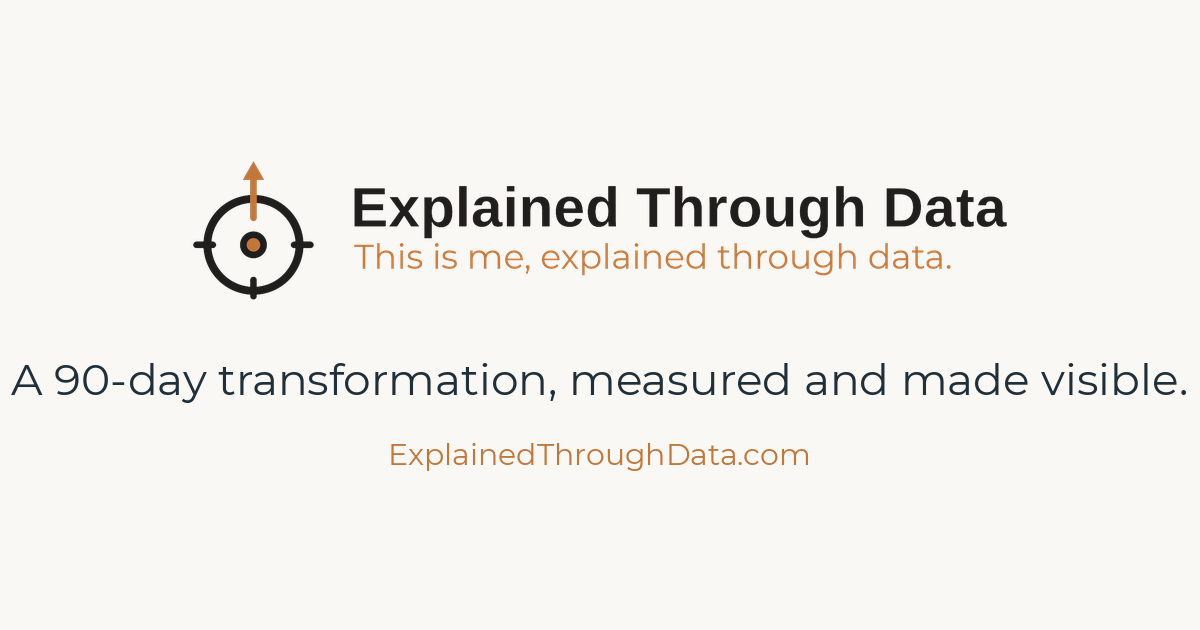
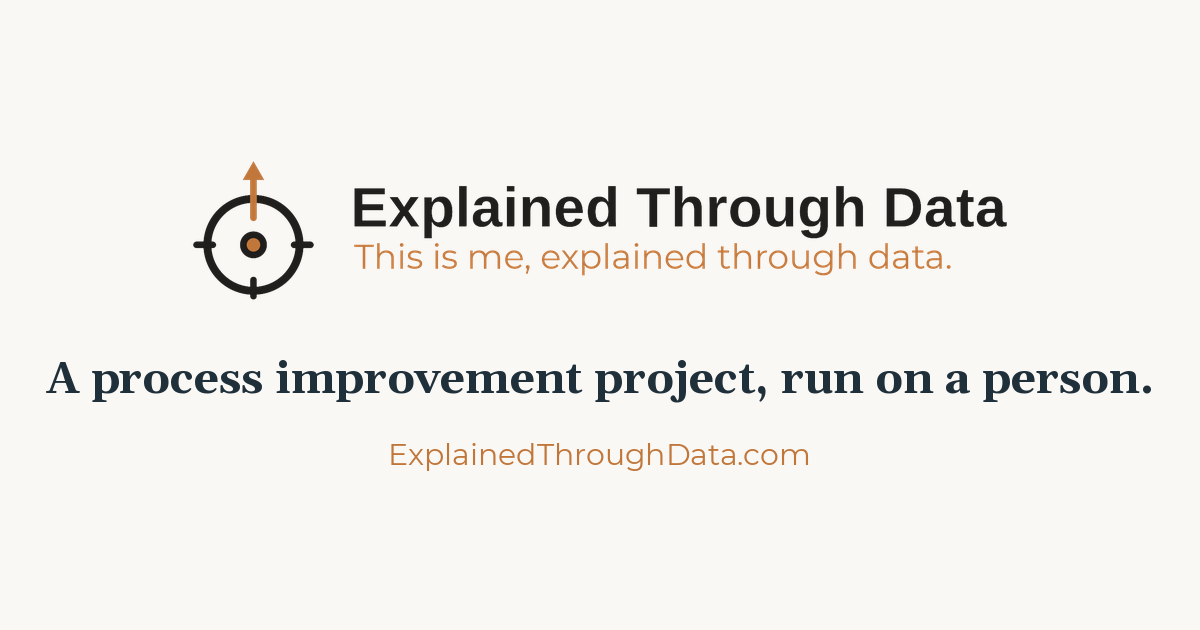
Add files via upload

Changed region(s): [[0.0, 0.573, 0.9867, 0.6333]]

diff --git a/casestudy.html b/casestudy.html
@@ -11,17 +11,17 @@
     gtag('config', 'G-PDDWPMZY8G');
   </script>
   <title>Case Study &mdash; Explained Through Data</title>
-  <meta name="description" content="A 90-day live case study. Real days, honest numbers, one system built to hold both.">
+  <meta name="description" content="A process improvement project run on a person instead of a factory. Live charts, honest numbers, and the misses included.">
   <meta property="og:type" content="website">
   <meta property="og:url" content="https://www.explainedthroughdata.com/casestudy.html">
   <meta property="og:title" content="Explained Through Data: this is what the data shows">
-  <meta property="og:description" content="A self-directed Lean Six Sigma project applying DMAIC and statistical process control to a measurable 90-day transformation, documented in public with real data and control charts.">
+  <meta property="og:description" content="A self-directed Lean Six Sigma project applying DMAIC and statistical process control to a person instead of a factory, documented in public with real data and live charts.">
   <meta property="og:image" content="https://www.explainedthroughdata.com/og-image.png">
   <meta property="og:image:width" content="1200">
   <meta property="og:image:height" content="630">
   <meta name="twitter:card" content="summary_large_image">
   <meta name="twitter:title" content="Explained Through Data: this is what the data shows">
-  <meta name="twitter:description" content="A measurable 90-day transformation, documented in public with real data.">
+  <meta name="twitter:description" content="A process improvement project run on a person instead of a factory, documented in public with real data.">
   <meta name="twitter:image" content="https://www.explainedthroughdata.com/og-image.png">
 
   <link rel="icon" type="image/png" sizes="32x32" href="favicon_32.png">
@@ -114,7 +114,7 @@
 
     <section class="band">
       <div class="eyebrow">The Process Improvement Project</div>
-      <p>Ninety days of documenting real life without a pass or fail attached. Every morning starts with the same short set of measurements. Every evening closes with a written reflection. Six pillars run underneath: Body, Career, Relational and Spiritual, Community, and the quiet fifth of Documentation itself.</p>
+      <p>Ninety days of documenting real life without a pass or fail attached. Every morning starts with the same short set of measurements. Every evening closes with a written reflection. Three pillars run underneath: Body, Career, and Relational and Spiritual. The documenting itself is not a pillar. It is the discipline that makes the other three legible.</p>
       <p>The frame is Lean Six Sigma, DMAIC, and Statistical Process Control, applied to a person instead of a factory. That is not a metaphor. Every measurement has an operational definition, every finding has a Special Cause or Common Cause verdict, and every ruling is dated and defensible.</p>
     </section>
 
@@ -163,8 +163,10 @@
     </section>
 
     <section class="band">
-      <h2>See a system in motion?</h2>
-      <p>Reach me if you'd like to talk about what this looks like inside client experience, account management, or a role where measured care matters.</p>
+      <div class="eyebrow">What's Next</div>
+      <h2>This is how I would run your accounts.</h2>
+      <p>The method transfers. Define the problem, measure before touching anything, change one thing at a time, then make sure the fix holds after the attention moves on. That works on a client relationship the same way it worked here.</p>
+      <p>I am looking for a remote Account Manager or Client Experience role where measured care is the job, not a side effect of it. If that is what you are hiring for, I would like to talk.</p>
       <a class="cta" href="mailto:ThisIsMe@ExplainedThroughData.com">Get in touch</a>
     </section>
   </div>

diff --git a/index.html b/index.html
@@ -11,17 +11,17 @@
     gtag('config', 'G-PDDWPMZY8G');
   </script>
   <title>Explained Through Data</title>
-  <meta name="description" content="A 90-day transformation, measured and made visible. A live case study by Jacqueline Ornelas.">
+  <meta name="description" content="A process improvement project run on a person instead of a factory. Ninety days, documented daily, published live with the misses included.">
   <meta property="og:type" content="website">
   <meta property="og:url" content="https://www.explainedthroughdata.com/">
-  <meta property="og:title" content="Explained Through Data: a 90-day live case study">
-  <meta property="og:description" content="A self-directed Lean Six Sigma project applying DMAIC and statistical process control to a measurable 90-day transformation, documented in public with real data and control charts.">
+  <meta property="og:title" content="I ran a process improvement project on myself">
+  <meta property="og:description" content="Lean Six Sigma, DMAIC, and statistical process control applied to a person instead of a factory. Ninety days documented daily and published live. Eight predictions made up front, four confirmed, four missed. The misses are still up.">
   <meta property="og:image" content="https://www.explainedthroughdata.com/og-image.png">
   <meta property="og:image:width" content="1200">
   <meta property="og:image:height" content="630">
   <meta name="twitter:card" content="summary_large_image">
-  <meta name="twitter:title" content="Explained Through Data: a 90-day live case study">
-  <meta name="twitter:description" content="A measurable 90-day transformation, documented in public with real data.">
+  <meta name="twitter:title" content="I ran a process improvement project on myself">
+  <meta name="twitter:description" content="Ninety days documented daily and published live. Eight predictions made up front, four confirmed, four missed.">
   <meta name="twitter:image" content="https://www.explainedthroughdata.com/og-image.png">
 
   <link rel="icon" type="image/png" sizes="32x32" href="favicon_32.png">
@@ -88,11 +88,11 @@
   </header>
   <main>
     <div class="hero">
-      <h1>A 90-day transformation, measured and made visible.</h1>
-      <p class="subline">A live case study, June 7 to September 4, 2026.<br>Real days, honest numbers, one system built to hold both.</p>
+      <h1>I ran a process improvement project on myself.</h1>
+      <p class="subline">Lean Six Sigma applied to a person instead of a factory.<br>Ninety days, documented daily and published live. Eight predictions made up front. Four confirmed, four missed.<br>The misses are still up.</p>
       <div class="dayline" id="dayline"></div>
-      <a class="cta" href="mailto:ThisIsMe@ExplainedThroughData.com">Get in touch</a>
-      <a class="case-study-link" href="casestudy.html">See the live data &rarr;</a>
+      <a class="cta" href="casestudy.html">See the data</a>
+      <a class="case-study-link" href="mailto:ThisIsMe@ExplainedThroughData.com">Or get in touch &rarr;</a>
     </div>
   </main>
   <footer>
@@ -110,7 +110,7 @@
       if (day >= 1 && day <= 90) {
         el.textContent = 'Day ' + day + ' of 90, documented daily.';
       } else if (day > 90) {
-        el.textContent = 'The first 90 days built the system. Day ' + day + ' and still documenting.';
+        el.textContent = 'Day ' + day + '. Still running.';
       }
     })();
   </script>
